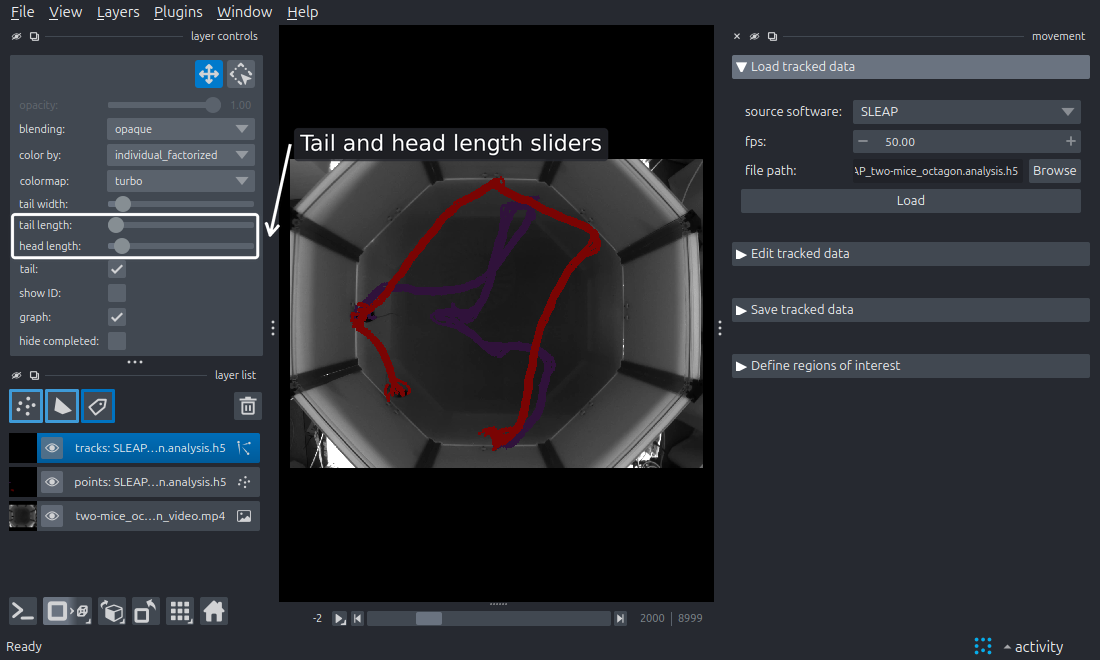
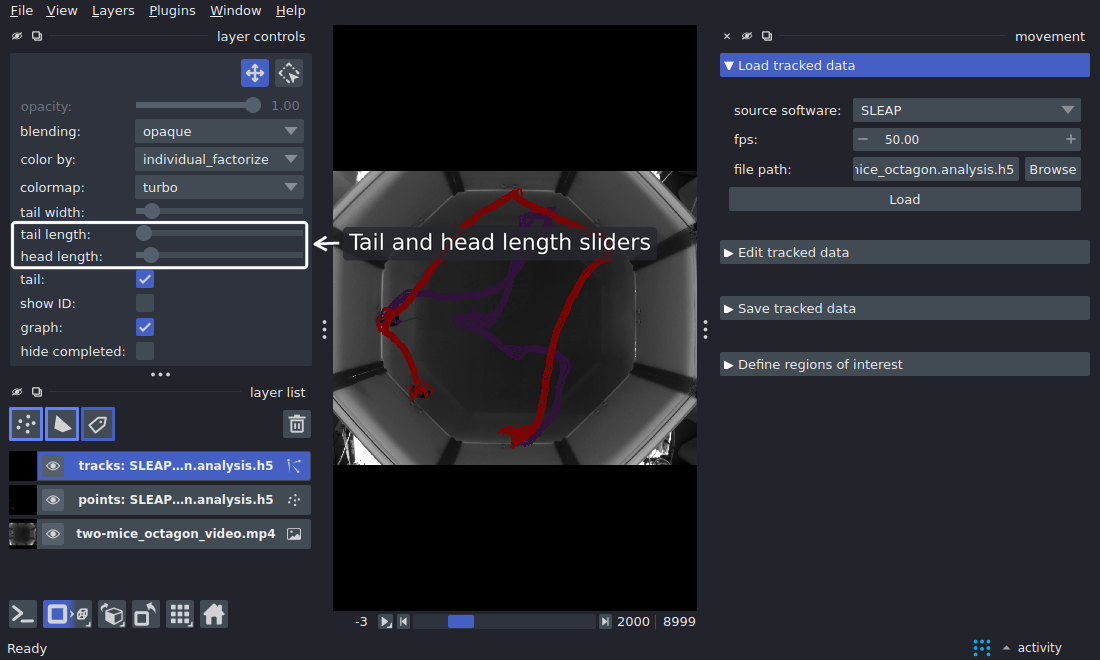
Place the tracks sliders label level with the sliders
Drop the upward shift of the label, so its arrow points straight at
the tail and head length sliders. Regenerate the screenshot with
napari 0.9.2.

Changed region(s): [[0.0, 0.0, 1.0, 0.9697], [0.0, 0.8788, 0.2164, 1.0], [0.8655, 0.9697, 0.9891, 1.0]]

diff --git a/docs/make_gui_screenshots.py b/docs/make_gui_screenshots.py
@@ -688,9 +688,7 @@ def tracks_sliders(out: Path) -> Path:
     sliders = gui.controls_rect(
         tracks, "_tail_length_slider_control", "_head_length_slider_control"
     )
-    labels = [
-        Label(sliders, "Tail and head length sliders", side="right", shift=-90)
-    ]
+    labels = [Label(sliders, "Tail and head length sliders", side="right")]
     return gui.save(out / "napari_tracks_sliders.png", labels)
 
 
